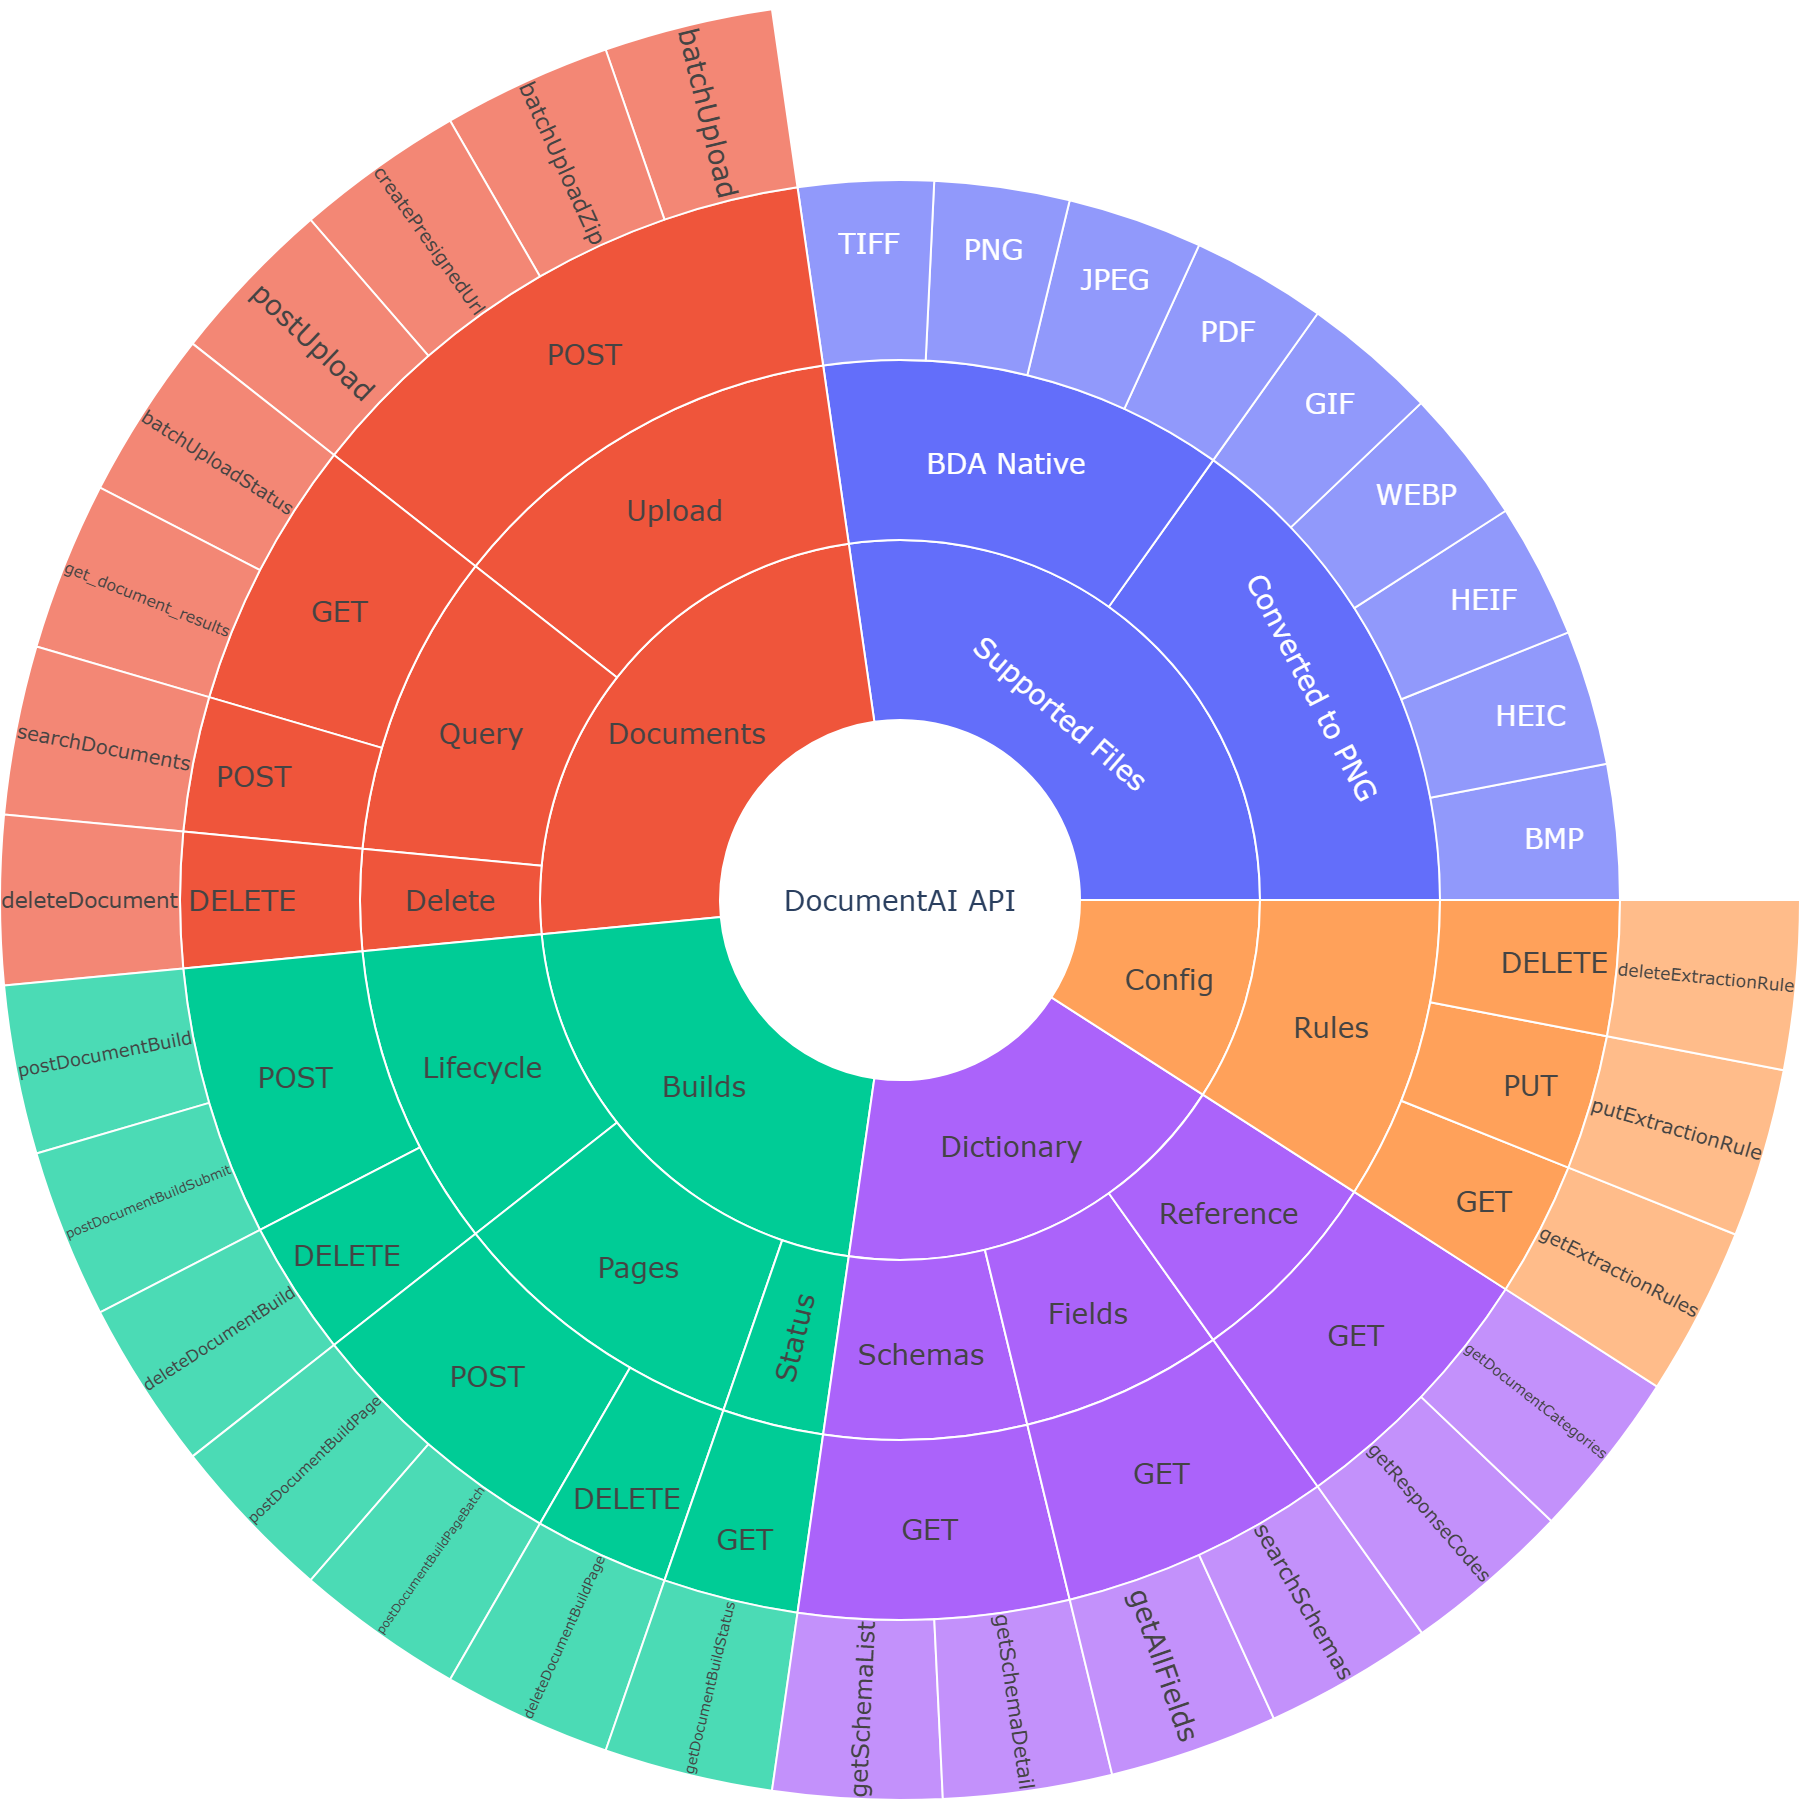
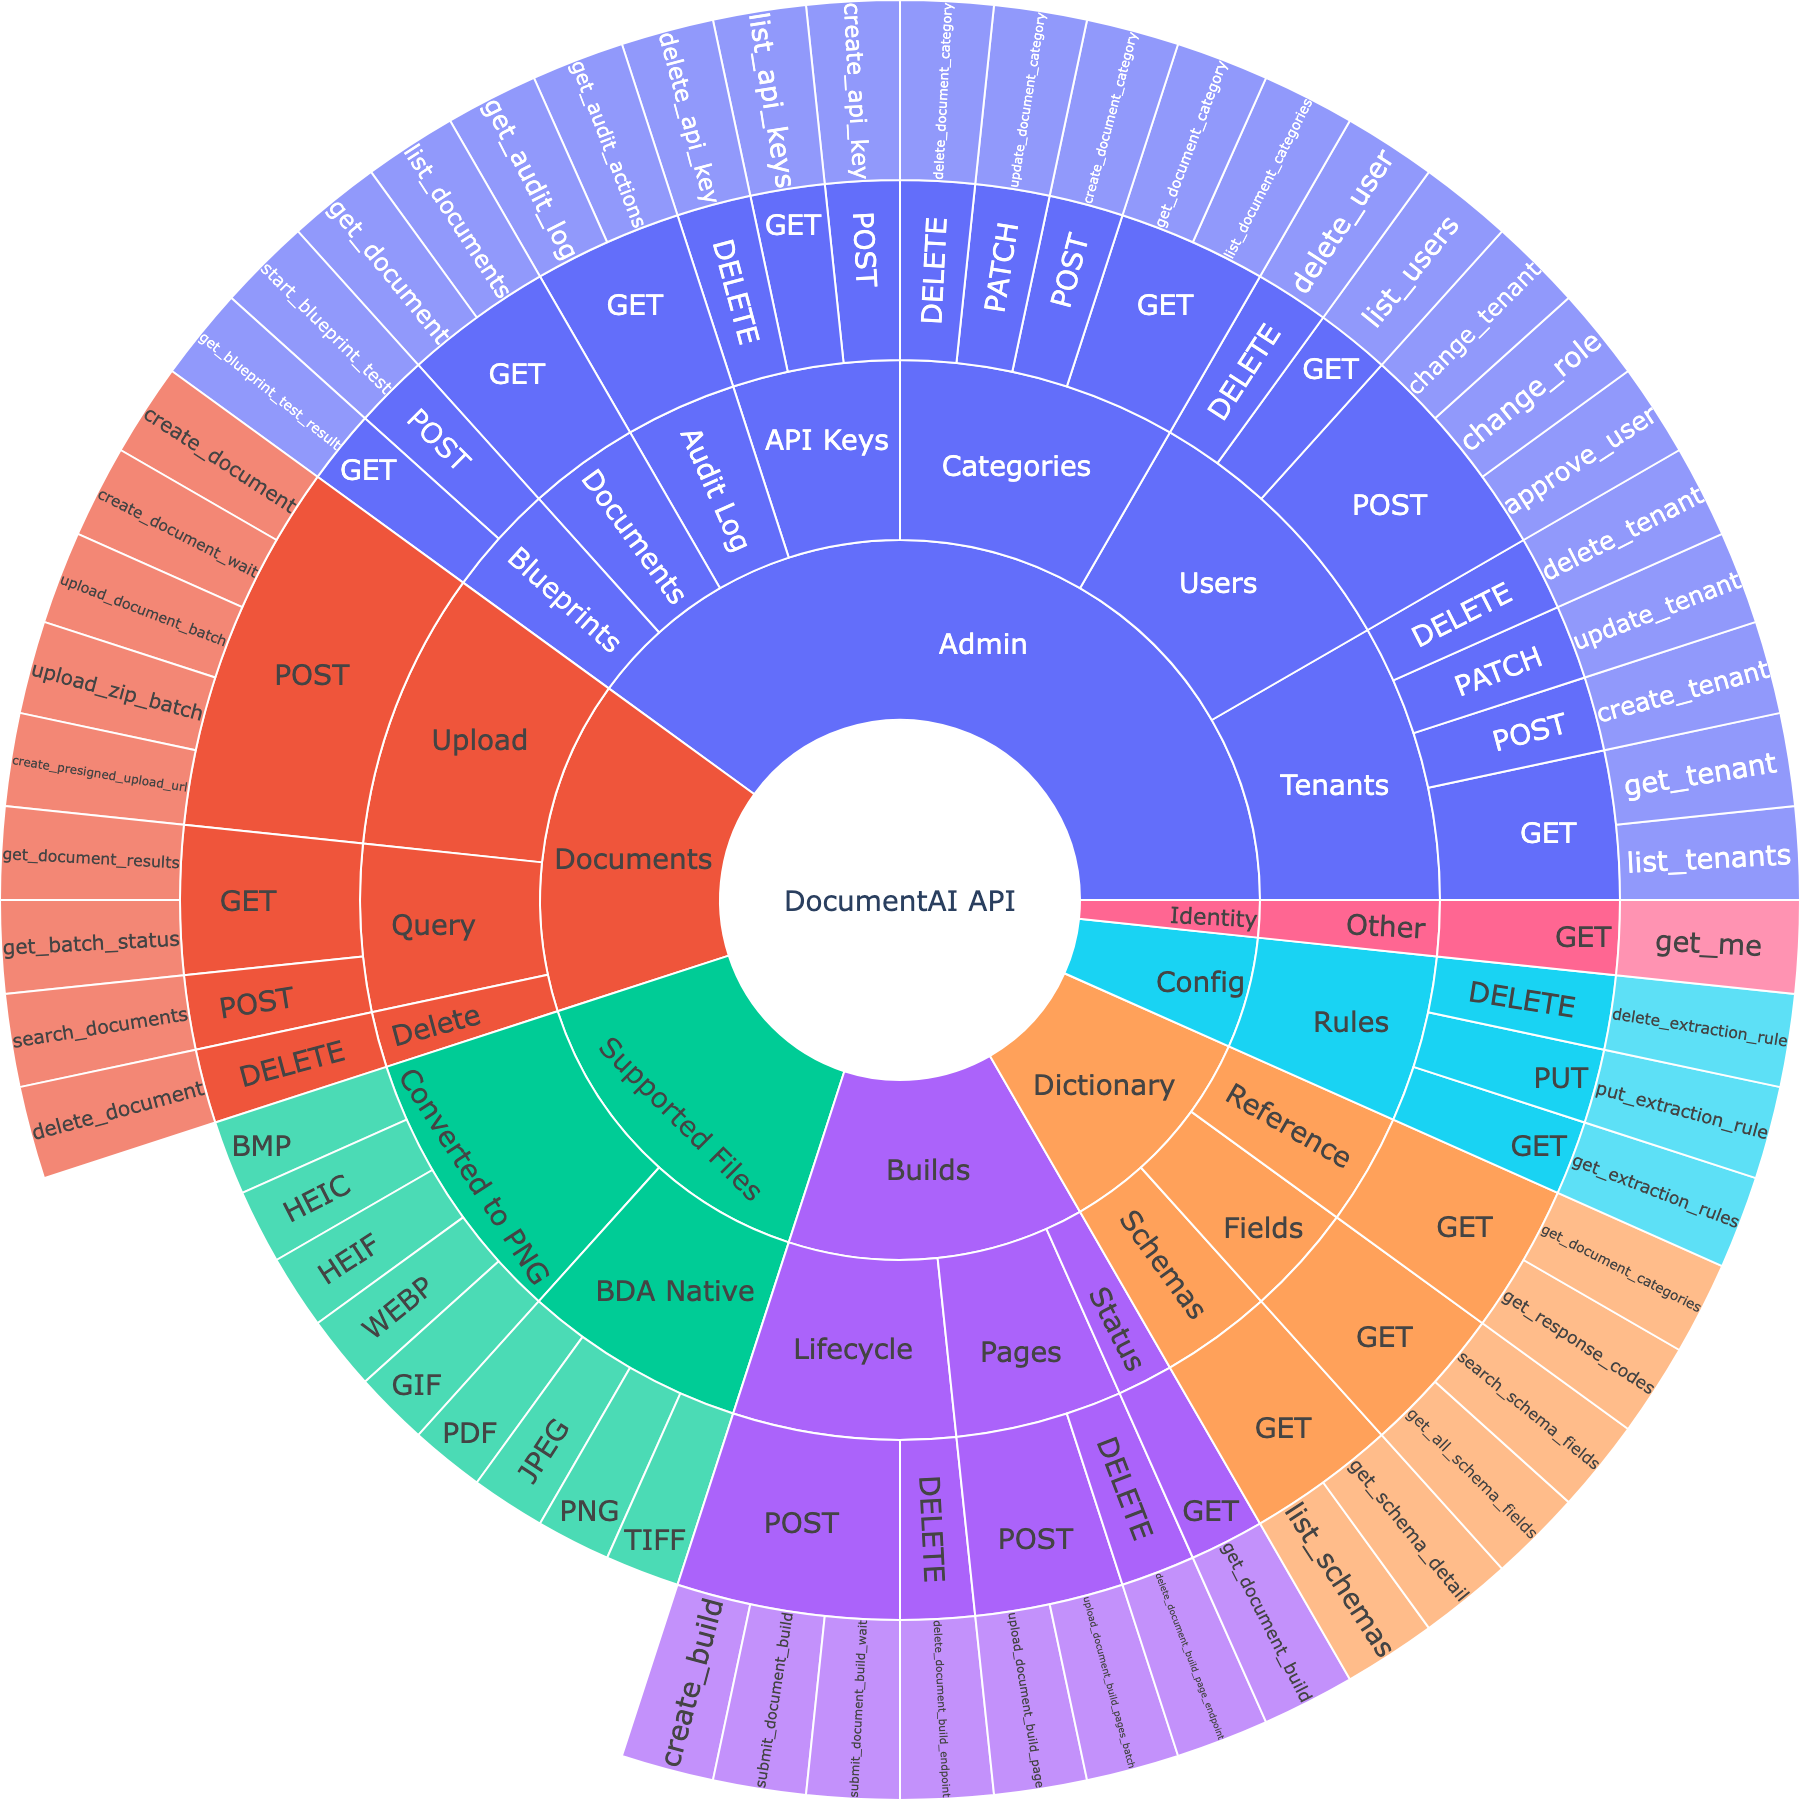
Standardize endpoint names and visualization tags
- Remove camelCase name= overrides from all routes (use auto-generated snake_case)
- Add admin tags to ApiVisualizationTag (API Keys, Tenants, Users, etc.)
- Update routers use ApiVisualizationTag constants for consistent OpenAPI grouping
- Fix api-viz Makefile target to run natively (not inside Docker)

diff --git a/documentai-api/tests/test_app.py b/documentai-api/tests/test_app.py
@@ -30,11 +30,11 @@ def test_config_endpoints_discovered(api_client):
     response = api_client.get("/config")
     endpoints = response.json()["endpoints"]
 
-    # known API endpoints should be present
-    assert "getExtractionRules" in endpoints
-    assert "getSchemaList" in endpoints
-    assert "postUpload" in endpoints
-    assert "postUploadWait" in endpoints
+    # known API endpoints should be present (auto-generated from function names)
+    assert "get_extraction_rules" in endpoints
+    assert "list_schemas" in endpoints
+    assert "create_document" in endpoints
+    assert "create_document_wait" in endpoints
 
     # excluded routes should not appear
     excluded_paths = set(endpoints.values())

diff --git a/documentai-api/src/documentai_api/app_build.py b/documentai-api/src/documentai_api/app_build.py
@@ -126,7 +126,6 @@ async def add_page_to_build(
 
 @router.post(
     "/v1/builds",
-    name="postDocumentBuild",
     tags=[ApiVisualizationTag.BUILDS_LIFECYCLE],
 )
 async def create_build(
@@ -168,7 +167,6 @@ async def create_build(
 
 @router.post(
     "/v1/builds/{build_id}/pages",
-    name="postDocumentBuildPage",
     dependencies=[Depends(validate_build_tenant_access)],
     tags=[ApiVisualizationTag.BUILDS_PAGES],
 )
@@ -231,7 +229,6 @@ async def upload_document_build_page(
 
 @router.post(
     "/v1/builds/{build_id}/pages/batch",
-    name="postDocumentBuildPageBatch",
     dependencies=[Depends(validate_build_tenant_access)],
     tags=[ApiVisualizationTag.BUILDS_PAGES],
 )
@@ -439,7 +436,6 @@ async def _submit_build(response: Response, build_id: str, trace_id: str | None)
 
 @router.post(
     "/v1/builds/{build_id}/submit",
-    name="postDocumentBuildSubmit",
     status_code=status.HTTP_202_ACCEPTED,
     dependencies=[Depends(validate_build_tenant_access)],
     tags=[ApiVisualizationTag.BUILDS_LIFECYCLE],
@@ -462,7 +458,6 @@ async def submit_document_build(
 
 @router.post(
     "/v1/builds/{build_id}/submit/wait",
-    name="postDocumentBuildSubmitWait",
     dependencies=[Depends(validate_build_tenant_access)],
     tags=[ApiVisualizationTag.BUILDS_LIFECYCLE],
 )
@@ -495,7 +490,6 @@ async def submit_document_build_wait(
 
 @router.get(
     "/v1/builds/{build_id}",
-    name="getDocumentBuildStatus",
     dependencies=[Depends(validate_build_tenant_access)],
     tags=[ApiVisualizationTag.BUILDS_STATUS],
 )
@@ -534,7 +528,6 @@ async def get_document_build(
 
 @router.delete(
     "/v1/builds/{build_id}/pages/{page_number}",
-    name="deleteDocumentBuildPage",
     dependencies=[Depends(validate_build_tenant_access)],
     tags=[ApiVisualizationTag.BUILDS_PAGES],
 )
@@ -561,7 +554,6 @@ async def delete_document_build_page_endpoint(build_id: str, page_number: int) -
 
 @router.delete(
     "/v1/builds/{build_id}",
-    name="deleteDocumentBuild",
     dependencies=[Depends(validate_build_tenant_access)],
     tags=[ApiVisualizationTag.BUILDS_LIFECYCLE],
 )

diff --git a/documentai-api/src/documentai_api/config/constants.py b/documentai-api/src/documentai_api/config/constants.py
@@ -334,6 +334,14 @@ class ApiVisualizationTag:
     DICTIONARY_FIELDS = "Dictionary:Fields"
     DICTIONARY_REFERENCE = "Dictionary:Reference"
     CONFIG_RULES = "Config:Rules"
+    ADMIN_API_KEYS = "Admin:API Keys"
+    ADMIN_TENANTS = "Admin:Tenants"
+    ADMIN_USERS = "Admin:Users"
+    ADMIN_AUDIT_LOG = "Admin:Audit Log"
+    ADMIN_DOCUMENTS = "Admin:Documents"
+    ADMIN_CATEGORIES = "Admin:Categories"
+    ADMIN_BLUEPRINTS = "Admin:Blueprints"
+    IDENTITY = "Identity"
 
 
 class AthenaQueryStatus:

diff --git a/documentai-api/src/documentai_api/app_dictionary.py b/documentai-api/src/documentai_api/app_dictionary.py
@@ -41,7 +41,6 @@ _CSV_RESPONSES: dict[int | str, dict[str, Any]] = {
 
 @router.get(
     "/v1/dictionary/schemas",
-    name="getSchemaList",
     tags=[ApiVisualizationTag.DICTIONARY_SCHEMAS],
 )
 async def list_schemas(
@@ -60,7 +59,6 @@ async def list_schemas(
 
 @router.get(
     "/v1/dictionary/schemas/{document_type}",
-    name="getSchemaDetail",
     response_model=None,
     responses=_CSV_RESPONSES,
     tags=[ApiVisualizationTag.DICTIONARY_SCHEMAS],
@@ -100,7 +98,6 @@ async def get_schema_detail(
 
 @router.get(
     "/v1/dictionary/fields",
-    name="getAllFields",
     response_model=None,
     responses=_CSV_RESPONSES,
     tags=[ApiVisualizationTag.DICTIONARY_FIELDS],
@@ -127,7 +124,6 @@ async def get_all_schema_fields(
 
 @router.get(
     "/v1/dictionary/search",
-    name="searchSchemas",
     response_model=None,
     responses=_CSV_RESPONSES,
     tags=[ApiVisualizationTag.DICTIONARY_FIELDS],
@@ -163,7 +159,6 @@ async def search_schema_fields(
 
 @router.get(
     "/v1/dictionary/response-codes",
-    name="getResponseCodes",
     response_model=None,
     responses=_CSV_RESPONSES,
     tags=[ApiVisualizationTag.DICTIONARY_REFERENCE],
@@ -189,7 +184,6 @@ async def get_response_codes(
 
 @router.get(
     "/v1/dictionary/document-categories",
-    name="getDocumentCategories",
     response_model=None,
     responses=_CSV_RESPONSES,
     tags=[ApiVisualizationTag.DICTIONARY_REFERENCE],

diff --git a/documentai-api/tests/test_app_batch.py b/documentai-api/tests/test_app_batch.py
@@ -51,9 +51,9 @@ def test_config_includes_batch_endpoints(api_client):
     response = api_client.get("/config")
     assert response.status_code == 200
     endpoints = response.json()["endpoints"]
-    assert "batchUpload" in endpoints
-    assert "batchUploadZip" in endpoints
-    assert "batchUploadStatus" in endpoints
+    assert "upload_document_batch" in endpoints
+    assert "upload_zip_batch" in endpoints
+    assert "get_batch_status" in endpoints
 
 
 def test_batch_upload_success(api_client, pdf_file):

diff --git a/documentai-api/src/documentai_api/app_me.py b/documentai-api/src/documentai_api/app_me.py
@@ -3,9 +3,10 @@
 from fastapi import APIRouter
 
 from documentai_api.annotations import AuthMethod, AuthUserWithFallback
+from documentai_api.config.constants import ApiVisualizationTag
 from documentai_api.models.base import BaseApiResponse
 
-router = APIRouter(tags=["identity"])
+router = APIRouter(tags=[ApiVisualizationTag.IDENTITY])
 
 
 class MeResponse(BaseApiResponse):
@@ -14,7 +15,7 @@ class MeResponse(BaseApiResponse):
     auth_method: AuthMethod
 
 
[email redacted]("/v1/me", response_model=MeResponse)
[email redacted]("/v1/me")
 async def get_me(auth: AuthUserWithFallback) -> MeResponse:
     """Return the authenticated user's identity context.
 

diff --git a/documentai-api/src/documentai_api/app_blueprint_test.py b/documentai-api/src/documentai_api/app_blueprint_test.py
@@ -11,7 +11,7 @@ from fastapi import APIRouter, Depends, File, Form, HTTPException, UploadFile
 from pydantic import Field
 
 from documentai_api.annotations import AdminClaims, verify_jwt_with_role
-from documentai_api.config.constants import BdaJobStatus
+from documentai_api.config.constants import ApiVisualizationTag, BdaJobStatus
 from documentai_api.config.env import EnvVars, get_aws_config, get_required_env
 from documentai_api.logging import get_logger
 from documentai_api.models.base import BaseApiResponse
@@ -21,7 +21,7 @@ logger = get_logger(__name__)
 
 router = APIRouter(
     prefix="/v1/admin/blueprints",
-    tags=["admin-blueprints"],
+    tags=[ApiVisualizationTag.ADMIN_BLUEPRINTS],
     dependencies=[Depends(verify_jwt_with_role)],
 )
 

diff --git a/documentai-api/src/documentai_api/app_documents.py b/documentai-api/src/documentai_api/app_documents.py
@@ -169,7 +169,6 @@ async def _upload_document(
 
 @router.post(
     "/v1/documents",
-    name="postUpload",
     status_code=status.HTTP_202_ACCEPTED,
     tags=[ApiVisualizationTag.DOCUMENTS_UPLOAD],
 )
@@ -203,7 +202,6 @@ async def create_document(
 
 @router.post(
     "/v1/documents/wait",
-    name="postUploadWait",
     tags=[ApiVisualizationTag.DOCUMENTS_UPLOAD],
 )
 async def create_document_wait(
@@ -307,7 +305,6 @@ async def get_document_results(
 
 @router.delete(
     "/v1/documents/{job_id}",
-    name="deleteDocument",
     tags=[ApiVisualizationTag.DOCUMENTS_DELETE],
 )
 async def delete_document(job_id: uuid.UUID, auth: AuthUser) -> Response:
@@ -354,7 +351,6 @@ async def delete_document(job_id: uuid.UUID, auth: AuthUser) -> Response:
 
 @router.post(
     "/v1/documents/search",
-    name="searchDocuments",
     tags=[ApiVisualizationTag.DOCUMENTS_QUERY],
 )
 async def search_documents(body: DocumentSearchRequest, auth: AuthUser) -> DocumentSearchResponse:

diff --git a/documentai-api/src/documentai_api/app_admin_documents.py b/documentai-api/src/documentai_api/app_admin_documents.py
@@ -7,6 +7,7 @@ from boto3.dynamodb.conditions import Attr, Key
 from fastapi import APIRouter, Depends, HTTPException, status
 
 from documentai_api.annotations import AdminClaims, PageLimit, verify_jwt_with_role
+from documentai_api.config.constants import ApiVisualizationTag
 from documentai_api.config.env import get_aws_config
 from documentai_api.logging import get_logger
 from documentai_api.models.admin_document import (
@@ -23,7 +24,7 @@ logger = get_logger(__name__)
 
 router = APIRouter(
     prefix="/v1/admin/documents",
-    tags=["admin-documents"],
+    tags=[ApiVisualizationTag.ADMIN_DOCUMENTS],
     dependencies=[Depends(verify_jwt_with_role)],
 )
 

diff --git a/documentai-api/src/documentai_api/app_api_keys.py b/documentai-api/src/documentai_api/app_api_keys.py
@@ -5,6 +5,7 @@ import hashlib
 from fastapi import APIRouter, Depends, HTTPException, status
 
 from documentai_api.annotations import AdminClaims
+from documentai_api.config.constants import ApiVisualizationTag
 from documentai_api.logging import get_logger
 from documentai_api.models.api_key import (
     ApiKeyItem,
@@ -29,7 +30,7 @@ logger = get_logger(__name__)
 # additionally requires a role assignment, so pending users get a 403 there.
 router = APIRouter(
     prefix="/v1/admin",
-    tags=["admin"],
+    tags=[ApiVisualizationTag.ADMIN_API_KEYS],
     dependencies=[Depends(verify_jwt)],
 )
 

diff --git a/documentai-api/src/documentai_api/app_audit_log.py b/documentai-api/src/documentai_api/app_audit_log.py
@@ -6,6 +6,7 @@ from boto3.dynamodb.conditions import Attr, ConditionBase, Key
 from fastapi import APIRouter, Depends, HTTPException, status
 
 from documentai_api.annotations import AdminClaims, IsoDateParam, PageLimit, verify_jwt_with_role
+from documentai_api.config.constants import ApiVisualizationTag
 from documentai_api.logging import get_logger
 from documentai_api.models.audit import AuditActionsResponse, AuditEventItem, AuditLogResponse
 from documentai_api.schemas.audit_event import (
@@ -21,7 +22,7 @@ logger = get_logger(__name__)
 
 router = APIRouter(
     prefix="/v1/admin/audit-log",
-    tags=["admin-audit-log"],
+    tags=[ApiVisualizationTag.ADMIN_AUDIT_LOG],
     dependencies=[Depends(verify_jwt_with_role)],
 )
 

diff --git a/documentai-api/src/documentai_api/app_batch.py b/documentai-api/src/documentai_api/app_batch.py
@@ -240,7 +240,6 @@ async def _execute_batch(
 
 @router.post(
     "/v1/documents/batch",
-    name="batchUpload",
     tags=[ApiVisualizationTag.DOCUMENTS_UPLOAD],
 )
 async def upload_document_batch(
@@ -284,7 +283,6 @@ async def upload_document_batch(
 
 @router.post(
     "/v1/documents/batch/zip",
-    name="batchUploadZip",
     tags=[ApiVisualizationTag.DOCUMENTS_UPLOAD],
 )
 async def upload_zip_batch(
@@ -325,7 +323,6 @@ async def upload_zip_batch(
 @router.get(
     "/v1/batches/{batch_id}",
     dependencies=[Depends(validate_batch_tenant_access)],
-    name="batchUploadStatus",
     tags=[ApiVisualizationTag.DOCUMENTS_QUERY],
 )
 async def get_batch_status(batch_id: str) -> BatchStatusResponse: